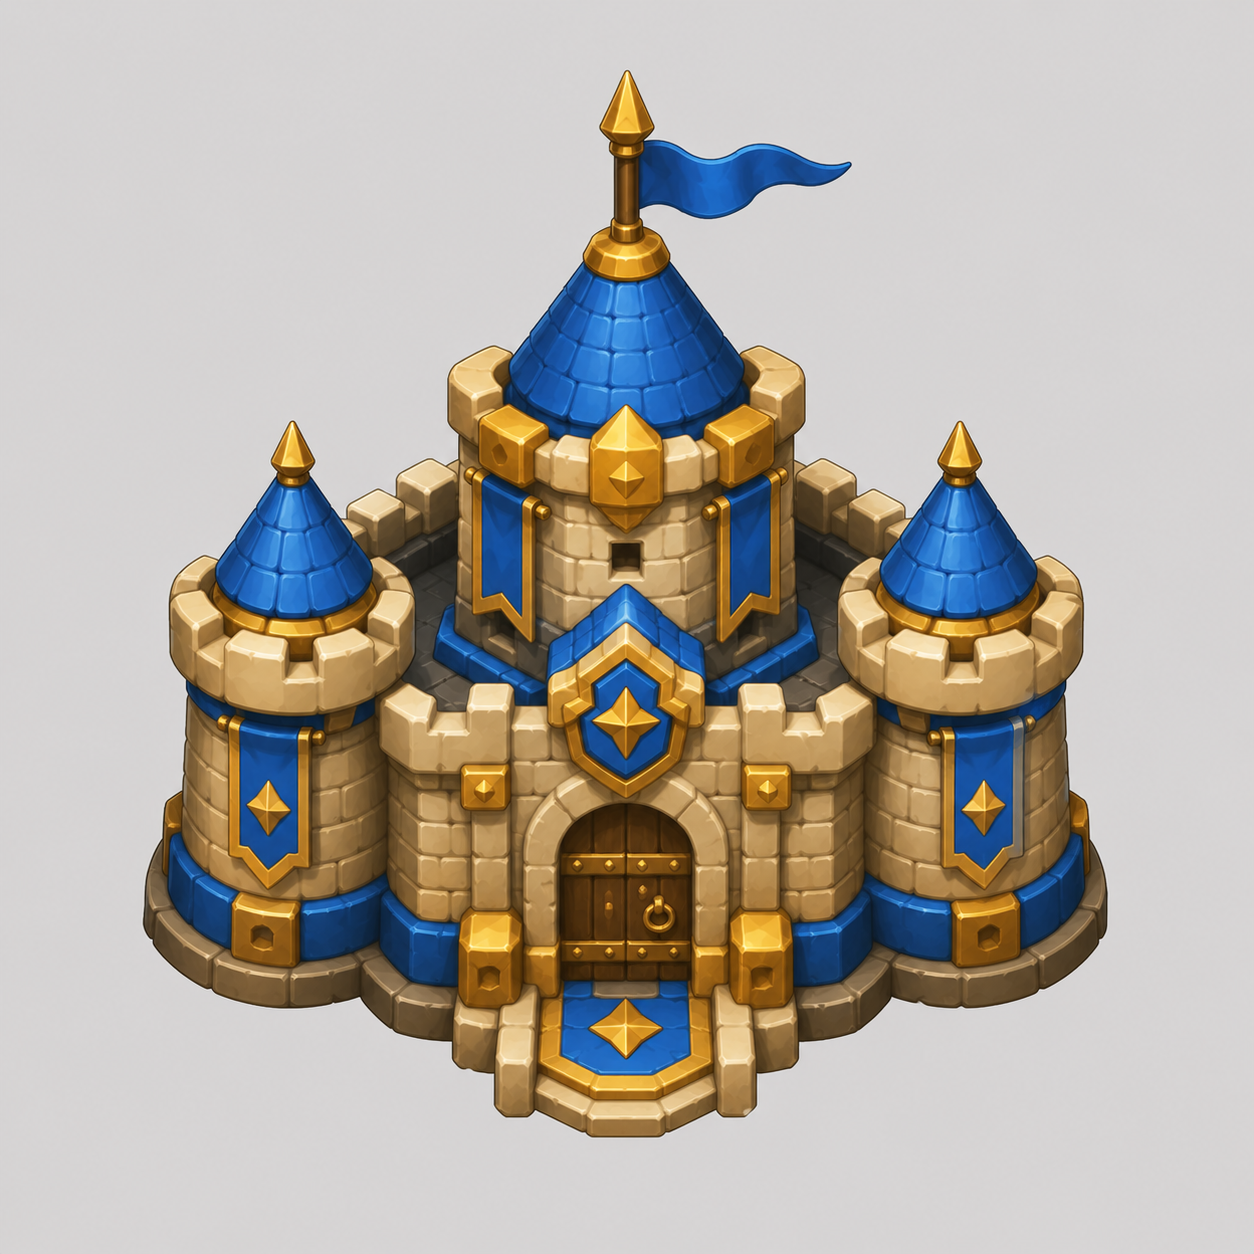
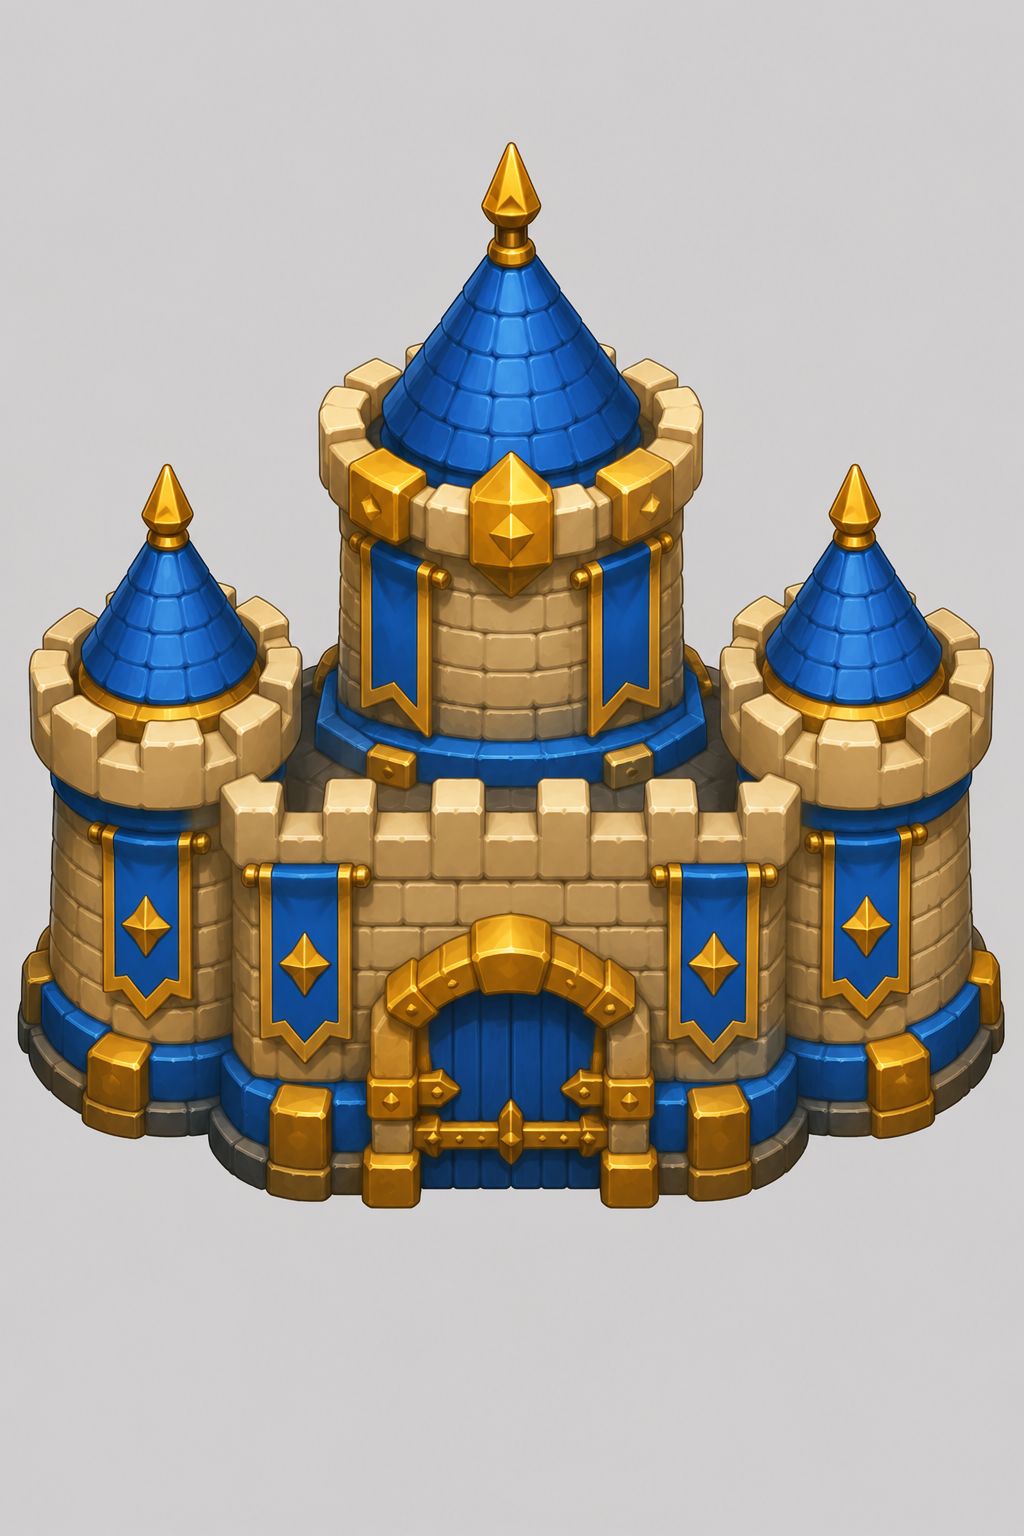
App instalavel (PWA): manifest + service worker (offline), icones gerados da arte do Brutus, tela cheia no toque de JOGAR e metatags de app - file:// preservado

diff --git a/sw.js b/sw.js
@@ -1,0 +1,66 @@
+/**
+ * sw.js — service worker: deixa o jogo instalável e jogável OFFLINE.
+ * Estratégia: código (html/js/json) = rede primeiro, cache como reserva —
+ * assim uma atualização publicada aparece na hora; imagens = cache primeiro
+ * (não mudam a toda hora e carregam instantâneo).
+ * Ao publicar uma versão nova, suba o número do CACHE.
+ */
+const CACHE = 'arena-frenetica-v3';
+
+const CORE = [
+  './', './index.html', './manifest.json',
+  './src/config/balance.js',
+  './src/config/maps/mapA.js', './src/config/maps/mapB.js', './src/config/maps/mapC.js',
+  './src/sim/core.js', './src/sim/nav.js', './src/sim/state.js', './src/sim/abilities.js',
+  './src/sim/step.js', './src/sim/bots.js', './src/sim/headless.js',
+  './src/input/controls.js',
+  './src/render/effects.js', './src/render/audio.js', './src/render/renderer.js',
+  './src/main.js',
+  './assets/heroes/brutus.png', './assets/heroes/lyra.png',
+  './assets/heroes/nix.png', './assets/heroes/sol.png',
+  './assets/icons/icon-192.png', './assets/icons/icon-512.png',
+];
+
+self.addEventListener('install', (e) => {
+  e.waitUntil(
+    caches.open(CACHE)
+      .then((c) => c.addAll(CORE).catch(() => {}))   // um asset faltando não aborta a instalação
+      .then(() => self.skipWaiting())
+  );
+});
+
+self.addEventListener('activate', (e) => {
+  e.waitUntil(
+    caches.keys()
+      .then((ks) => Promise.all(ks.filter((k) => k !== CACHE).map((k) => caches.delete(k))))
+      .then(() => self.clients.claim())
+  );
+});
+
+self.addEventListener('fetch', (e) => {
+  const req = e.request;
+  if (req.method !== 'GET') return;
+  const url = new URL(req.url);
+  if (url.origin !== location.origin) return;        // não intercepta terceiros
+
+  const isImage = /\.(png|jpg|jpeg|webp|gif|svg)$/i.test(url.pathname);
+
+  if (isImage) {                                     // cache primeiro
+    e.respondWith(
+      caches.match(req).then((hit) => hit || fetch(req).then((res) => {
+        const copy = res.clone();
+        caches.open(CACHE).then((c) => c.put(req, copy)).catch(() => {});
+        return res;
+      }).catch(() => hit))
+    );
+    return;
+  }
+
+  e.respondWith(                                     // rede primeiro (código)
+    fetch(req).then((res) => {
+      const copy = res.clone();
+      caches.open(CACHE).then((c) => c.put(req, copy)).catch(() => {});
+      return res;
+    }).catch(() => caches.match(req).then((hit) => hit || caches.match('./index.html')))
+  );
+});

diff --git a/src/main.js b/src/main.js
@@ -48,13 +48,25 @@ function startMatch() {
 
 function inRect(r, x, y) { return r && x >= r.x && x <= r.x + r.w && y >= r.y && y <= r.y + r.h; }
 
+// tela cheia de verdade ao começar a partida (precisa de gesto do usuário).
+// Falha silenciosa onde não há suporte (ex.: Safari no iPhone — lá o caminho
+// é instalar na tela de início, que já abre sem barra).
+function tryFullscreen() {
+  try {
+    const el = document.documentElement;
+    if (document.fullscreenElement || document.webkitFullscreenElement) return;
+    const req = el.requestFullscreen || el.webkitRequestFullscreen;
+    if (req) { const p = req.call(el, { navigationUI: 'hide' }); if (p && p.catch) p.catch(() => {}); }
+  } catch (e) { /* sem suporte: segue normal */ }
+}
+
 function onTap(x, y) {
   if (APP.screen === 'menu' && APP.menuRects) {
     for (const h of APP.menuRects.heroes) if (inRect(h, x, y)) { APP.menu.hero = h.id; return; }
     for (const a of APP.menuRects.allies) if (inRect(a, x, y)) { APP.menu.ally = a.id; return; }
     for (const m of APP.menuRects.maps) if (inRect(m, x, y)) { APP.menu.map = m.id; return; }
     for (const d of APP.menuRects.diffs) if (inRect(d, x, y)) { APP.menu.difficulty = d.id; return; }
-    if (inRect(APP.menuRects.start, x, y)) startMatch();
+    if (inRect(APP.menuRects.start, x, y)) { tryFullscreen(); startMatch(); }
   } else if (APP.screen === 'result' && APP.resultRects) {
     if (inRect(APP.resultRects.rematch, x, y)) startMatch();
     else if (inRect(APP.resultRects.menu, x, y)) { APP.screen = 'menu'; APP.st = null; }

diff --git a/index.html b/index.html
@@ -6,12 +6,17 @@
 <meta name="mobile-web-app-capable" content="yes">
 <meta name="apple-mobile-web-app-capable" content="yes">
 <meta name="apple-mobile-web-app-status-bar-style" content="black-translucent">
+<meta name="apple-mobile-web-app-title" content="Arena Frenética">
+<meta name="theme-color" content="#0d1811">
+<link rel="manifest" href="manifest.json">
+<link rel="icon" href="assets/icons/favicon-64.png" sizes="64x64" type="image/png">
+<link rel="apple-touch-icon" href="assets/icons/icon-180.png">
 <title>Arena Frenética — mini-MOBA 2v2</title>
 <style>
   html, body {
     margin: 0; padding: 0;
     width: 100%; height: 100%;
-    background: #0d1117;
+    background: #0d1811;
     overflow: hidden;
     overscroll-behavior: none;
     touch-action: none;
@@ -49,5 +54,15 @@
 <script src="src/render/audio.js"></script>
 <script src="src/render/renderer.js"></script>
 <script src="src/main.js"></script>
+
+<!-- App instalável + offline. Só em http(s): abrir o index.html por arquivo
+     (file://) continua funcionando normalmente, apenas sem service worker. -->
+<script>
+if ('serviceWorker' in navigator && location.protocol.startsWith('http')) {
+  window.addEventListener('load', () => {
+    navigator.serviceWorker.register('sw.js').catch(() => {});
+  });
+}
+</script>
 </body>
 </html>

diff --git a/DECISIONS.md b/DECISIONS.md
@@ -80,6 +80,23 @@ Cada linha: a decisão e a justificativa em uma linha.
   no C (2:51 de média, 13% de morte súbita, dragão 100% contestado, zero travadas) e Mapa B
   re-verificado sem regressão.
 
+## App instalável (PWA) — pedido do usuário: "jogar em tela cheia no celular"
+
+- **PWA em vez de Capacitor/loja** (decisão discutida): `manifest.json` + `sw.js` dão ícone na
+  tela de início, abertura **sem barra de navegador** e jogo **offline**, sem Node, sem Android
+  Studio/Xcode, sem custo de loja. O caminho Capacitor continua aberto no futuro (o jogo é web
+  estático) e nada aqui o atrapalha.
+- **`display: "fullscreen"`** com fallback `standalone`; **`orientation: "any"`** de propósito —
+  temos mapas deitados (A/B) e em pé (C), então travar orientação quebraria metade do jogo.
+- **Tela cheia também sem instalar**: `requestFullscreen()` disparado no toque em JOGAR (precisa
+  de gesto do usuário); falha silenciosa no iPhone, onde o caminho é instalar.
+- **Estratégia de cache**: código = rede primeiro (atualização publicada aparece na hora, sem o
+  clássico "atualizei e continua velho"), imagens = cache primeiro. Ao publicar, subir `CACHE`
+  em `sw.js` é opcional mas recomendado.
+- **`file://` preservado**: o service worker só é registrado em http(s), então abrir o
+  `index.html` com 2 cliques continua funcionando igual.
+- **Ícones** gerados por script a partir da arte do Brutus (192/512/maskable/apple-180/favicon).
+
 ## Apresentação / controles
 
 - **Direção de arte "toy/cartoon"** (pedido do usuário, referência Clash Royale): arena clara de

diff --git a/README.md b/README.md
@@ -7,7 +7,17 @@ súbita, mapa 100% visível (sem câmera de rolagem), **visão inclinada 2.5D** 
 ## Como jogar
 
 **Dê dois cliques em `index.html`.** Não precisa instalar nada — funciona em qualquer navegador
-moderno (Chrome, Edge, Firefox), inclusive no celular (paisagem/horizontal).
+moderno (Chrome, Edge, Firefox), inclusive no celular.
+
+### No celular, como um app (tela cheia, offline)
+
+O jogo é um **PWA**: abra o link publicado (Netlify) no celular e instale na tela de início —
+ele passa a abrir **sem barra de navegador**, com ícone próprio, e **funciona sem internet**.
+
+- **Android (Chrome)**: menu ⋮ → *Instalar aplicativo* / *Adicionar à tela inicial*.
+- **iPhone (Safari)**: botão Compartilhar → *Adicionar à Tela de Início*.
+- Jogando pelo navegador mesmo (sem instalar), tocar em **JOGAR** já entra em tela cheia
+  no Android; no iPhone o caminho é instalar.
 
 1. Escolha o seu herói, o **parceiro** (bot), o mapa e a **dificuldade** (Fácil/Normal/Difícil,
    vale só para os inimigos) e toque **JOGAR** — as duplas se apresentam e a contagem 3-2-1-LUTE!
